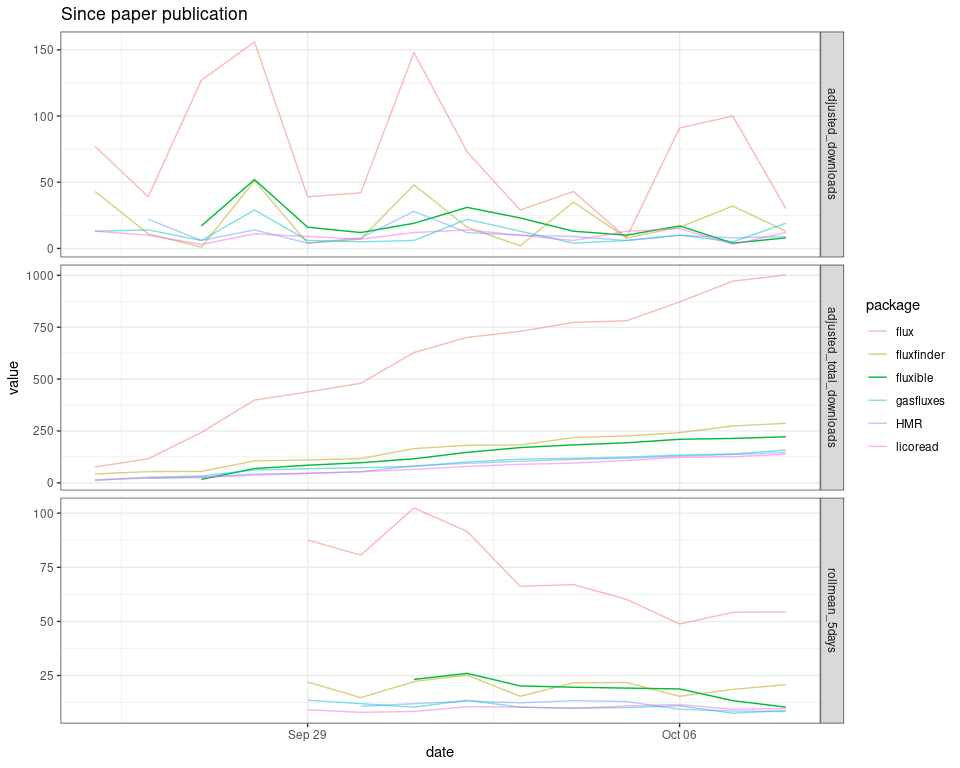
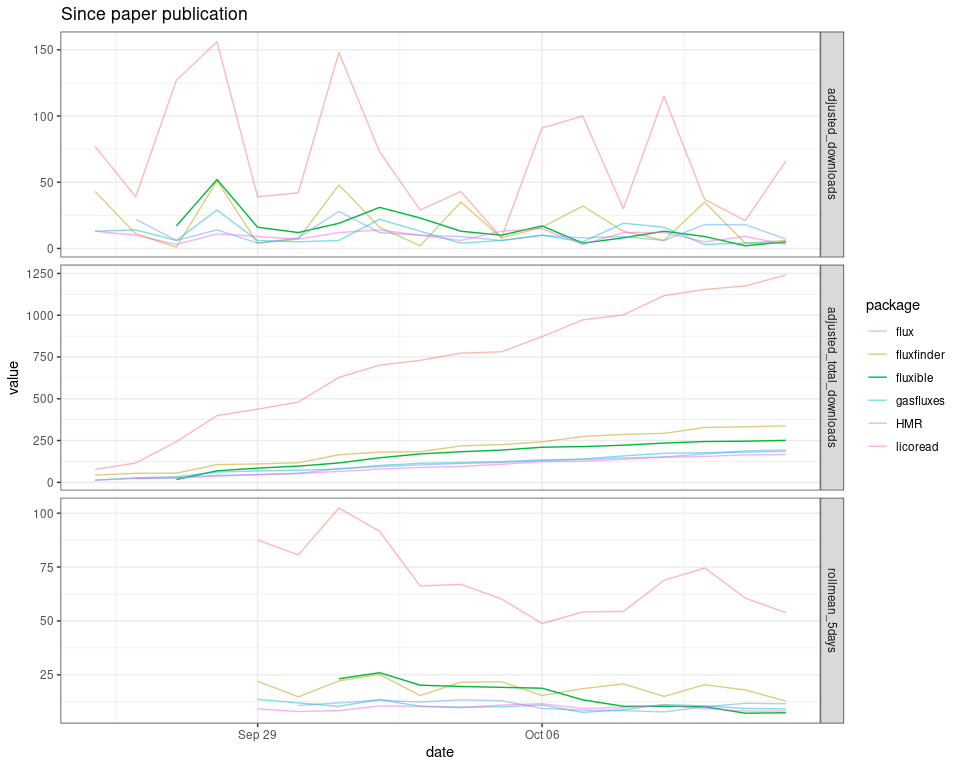
perf and download logs

diff --git a/perf_report.md b/perf_report.md
@@ -1,13 +1,13 @@
 # fluxible performance report
 Joseph Gaudard
-2025-10-03
+2025-10-14
 
-Current `fluxible` package version: 1.3.3
+Current `fluxible` package version: 1.3.4
 
 # `flux_plot`
 
 ``` r
-plotting_etime <- function(version, nb_fluxes = c(1, 10, 30, 60, 100, 138),
+plotting_etime <- function(version, nb_fluxes = c(1, 5, 10, 20, 30, 40, 50, 60, 70, 80, 90, 100, 110, 120, 130),
  replicates = 3, output = c("pdfpages", "longpdf")) {
 
 result <- replicate(n = replicates, expr = {
@@ -60,7 +60,7 @@ Figure 1: Performance of flux_plot per version and output.
 # `flux_fitting`
 
 ``` r
-fitting_etime <- function(version, nb_fluxes = c(1, 10, 30, 60, 100, 138),
+fitting_etime <- function(version, nb_fluxes = c(1, 5, 10, 20, 30, 40, 50, 60, 70, 80, 90, 100, 110, 120, 130),
  replicates = 3, fit_type = c("exp_zhao18", "linear", "quadratic", "exp_tz")) {
 
 

diff --git a/download_logs.md b/download_logs.md
@@ -1,6 +1,6 @@
 # fluxible download logs
 Joseph Gaudard
-2025-10-10
+2025-10-14
 
 <div id="fig-lastmonth">
 
